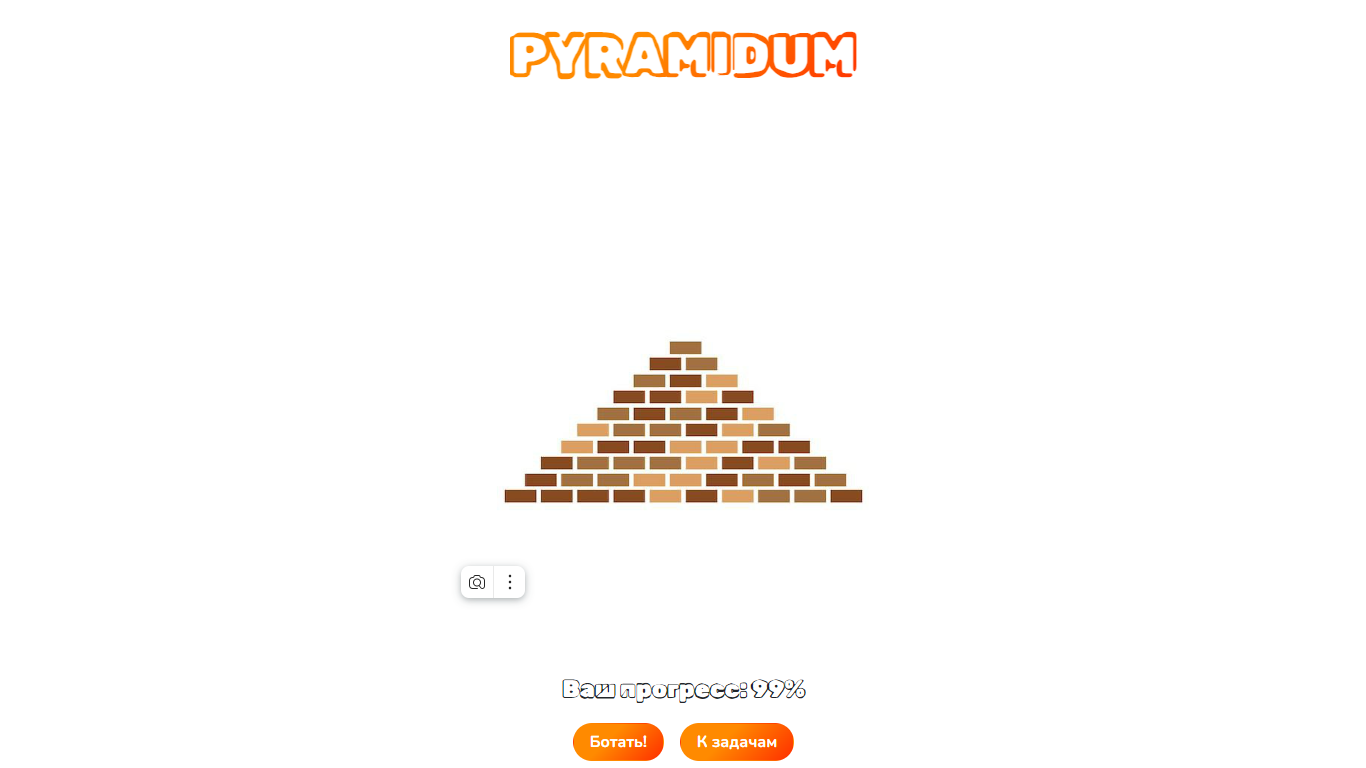
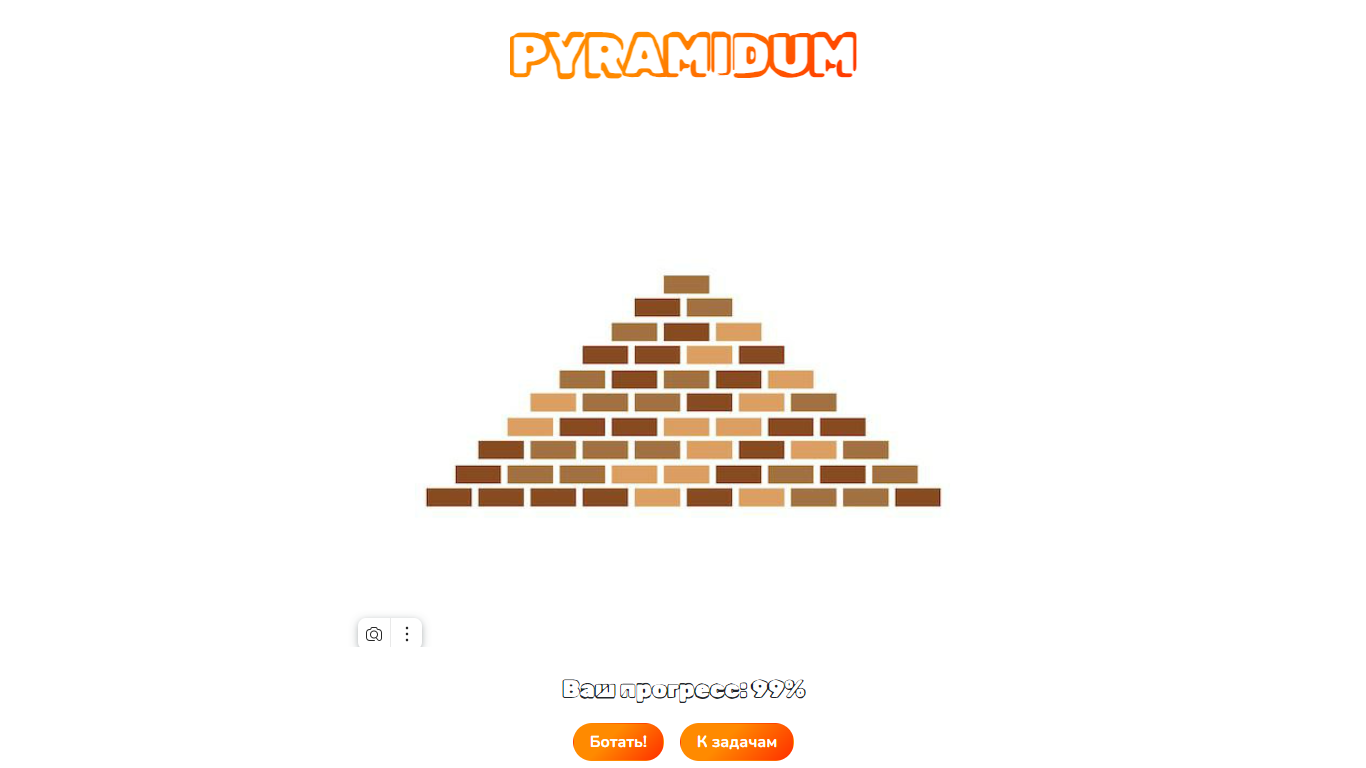
Fix bugs

Changed region(s): [[0.3075, 0.3438, 0.7072, 0.6875], [0.3382, 0.75, 0.3997, 0.7812], [0.246, 0.8125, 0.2767, 0.8438]]

diff --git a/src/pages/Motivator.vue b/src/pages/Motivator.vue
@@ -2,7 +2,14 @@
   import { useMotivatorStore } from "../stores/Motivator.js";
   
   export default {
+    beforeCreate: function() {
+        document.body.className = 'dashboard'
+        document.getElementById('app').className = 'dashboard'
+    },
+    
     setup() {
+      document.title = 'PIRAMIDA | Pyramidum'
+      
       const motivatorStore = useMotivatorStore()
       return { motivatorStore }
     },
@@ -69,7 +76,6 @@
 }
 
 .pyramidum-motivator {
-    height: 80%;
     display: flex;
     flex-direction: column;
     justify-content: center;
